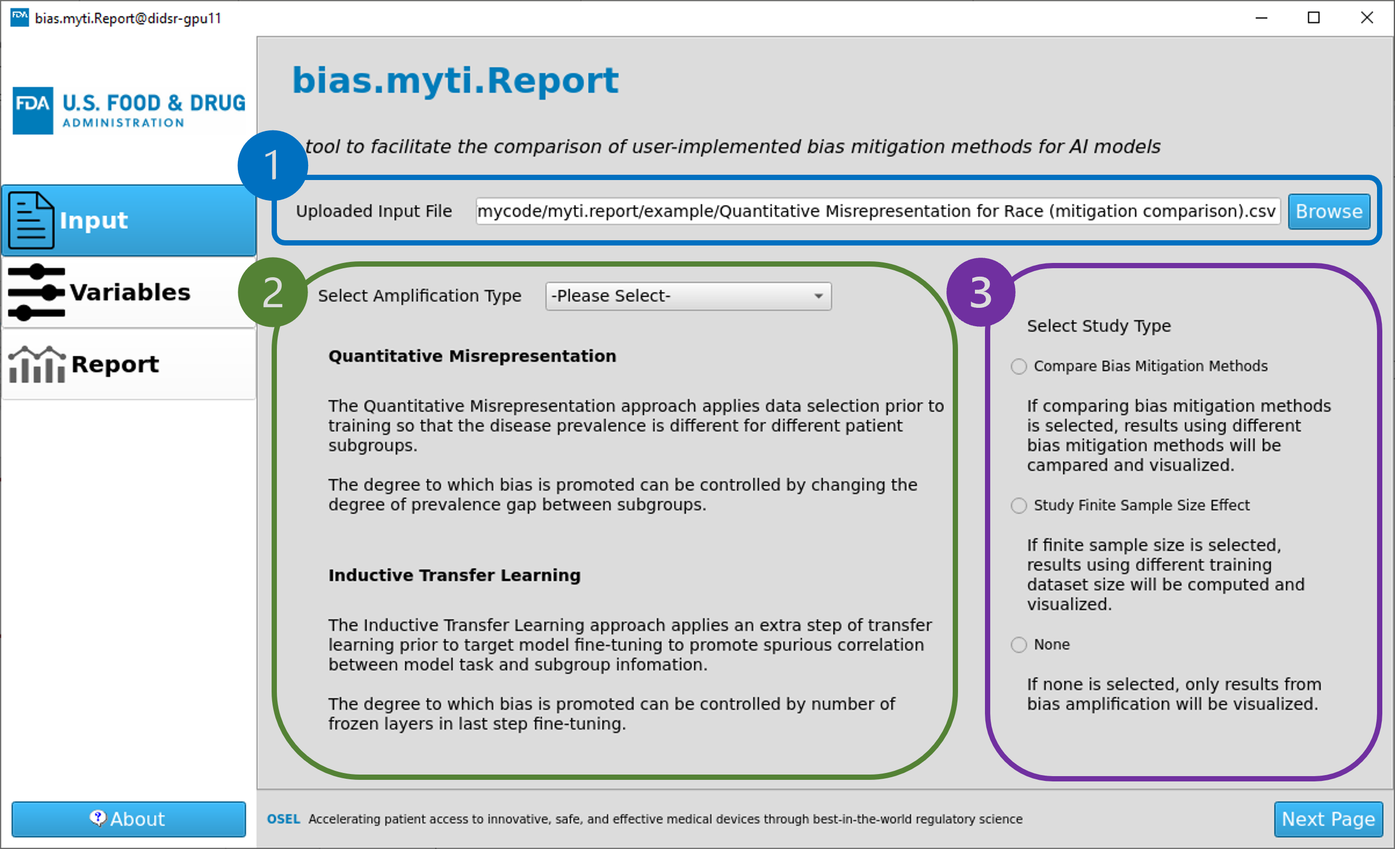
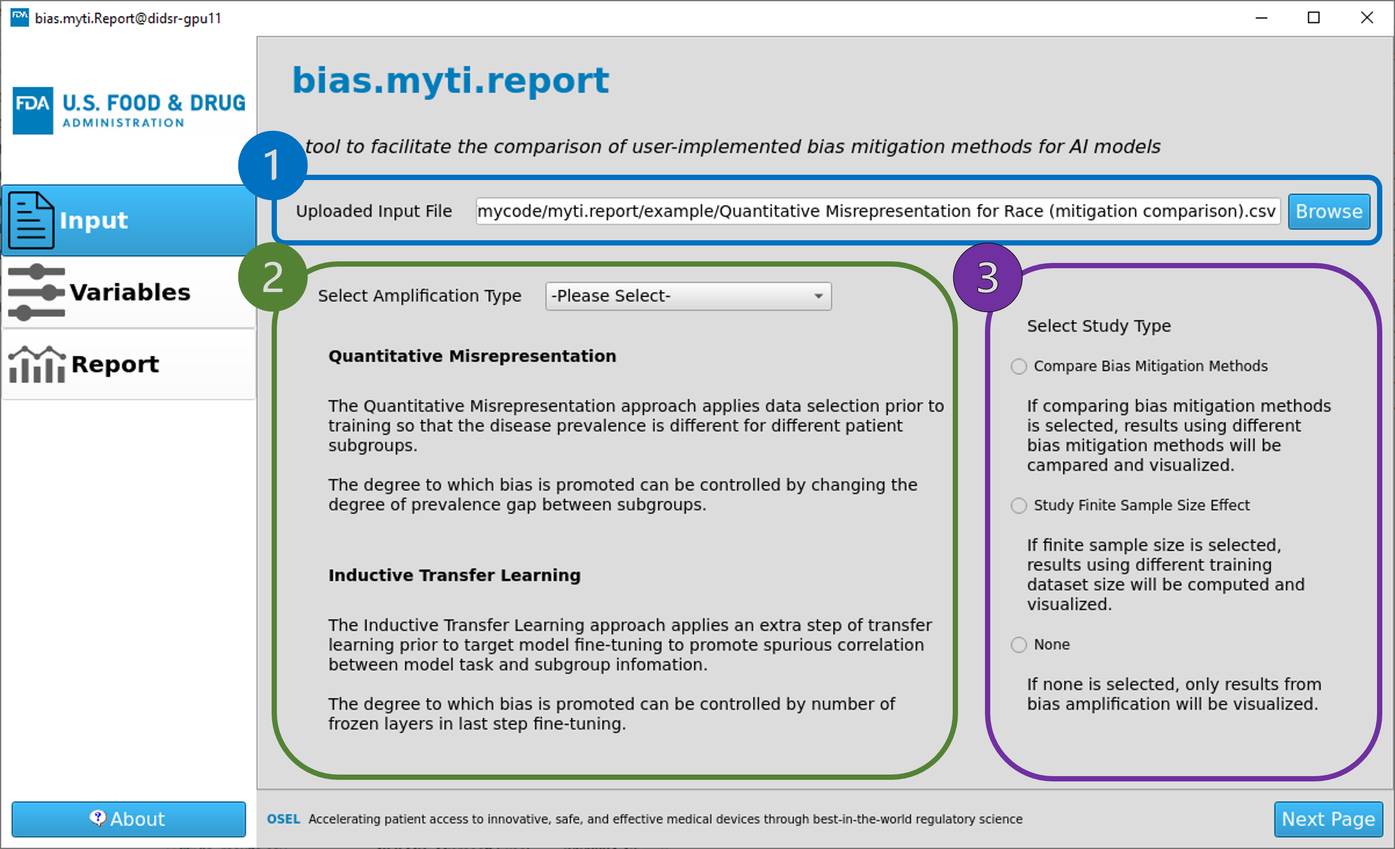
Modifying documentation page.

diff --git a/docs/searchindex.js b/docs/searchindex.js
@@ -1,1 +1,1 @@
-Search.setIndex({"docnames": ["index", "src"], "filenames": ["index.rst", "src.rst"], "titles": ["bias.myti.Report", "myti.report GUI"], "terms": {"aim": [], "increas": 0, "understand": [], "ai": 0, "model": [0, 1], "well": [], "effect": [], "implement": 0, "mitig": 0, "method": 0, "The": [0, 1], "tool": [0, 1], "provid": [0, 1], "guidanc": 0, "how": [0, 1], "systemat": 0, "amplifi": 0, "help": [], "user": [0, 1], "visual": 0, "two": 0, "approach": [0, 1], "includ": [0, 1], "quantit": 0, "misrepresent": 0, "induct": 0, "transfer": 0, "learn": 0, "can": [0, 1], "amplif": 0, "addit": [0, 1], "control": [0, 1], "over": 0, "degre": 0, "which": [0, 1], "i": [0, 1], "taken": 0, "both": 0, "Such": [], "facilit": 0, "comparison": 0, "To": 0, "propos": 0, "pleas": 0, "follow": 0, "instruct": 0, "exampl": 0, "jupyt": 0, "notebook": 0, "folder": 0, "either": 0, "us": [0, 1], "midrc": [0, 1], "open": [0, 1], "a1": [0, 1], "data": [0, 1], "set": [0, 1], "own": 0, "note": 0, "must": [0, 1], "have": [0, 1], "subgroup": [0, 1], "attribut": [0, 1], "inform": [0, 1], "measur": [0, 1], "gui": 0, "an": 0, "input": [0, 1], "csv": [0, 1], "contain": [0, 1], "result": [0, 1], "from": [0, 1], "experi": [0, 1], "make": 0, "between": [0, 1], "ha": 1, "algorithm": 0, "themselv": 0, "aggreg": 0, "singl": 0, "file": [0, 1], "A": 0, "differ": [0, 1], "perform": [0, 1], "process": [0, 1], "appli": 0, "select": [0, 1], "train": [0, 1], "so": 0, "diseas": 0, "preval": [0, 1], "ar": [0, 1], "step": 0, "scheme": 0, "where": [0, 1], "classifi": 0, "dure": [0, 1], "first": [0, 1], "In": [0, 1], "second": [0, 1], "fine": [0, 1], "tune": [0, 1], "clinic": 0, "task": [0, 1], "index": 0, "modul": 0, "search": 0, "page": [0, 1], "aboutwindow": [0, 1], "clicklabel": [0, 1], "dataset": [0, 1], "finalpag": [0, 1], "initialpag": [0, 1], "mainwindow": [0, 1], "secondpag": [0, 1], "adjust_comp": [0, 1], "adjust_subgroup": [0, 1], "analysi": [0, 1], "apply_custom_transfer_learning__resnet18": [0, 1], "bias_report_gener": [0, 1], "bootstrap": [0, 1], "calculate_ci": [0, 1], "convert_from_summari": [0, 1], "convert_to_csv": [0, 1], "figure_plot": [0, 1], "get_stat": [0, 1], "get_subgroup": [0, 1], "inference_onnx": [0, 1], "info_pred_map": [0, 1], "load_custom_checkpoint": [0, 1], "metric_calcul": [0, 1], "modify_classification_layer_v1": [0, 1], "prevent_data_leakag": [0, 1], "process_convert_dicom_to_jpeg": [0, 1], "process_convert_image_loop": [0, 1], "read_jpg": [0, 1], "read_open_a1_20221010": [0, 1], "results_plot": [0, 1], "run_deploy_onnx": [0, 1], "run_train": [0, 1], "run_valid": [0, 1], "save_checkpoint": [0, 1], "save_report": [0, 1], "train_split": [0, 1], "class": 1, "src": 1, "about": 1, "me": 1, "window": 1, "github": 1, "link": 1, "version": 1, "number": 1, "other": 1, "necessari": 1, "infom": 1, "load_gui": 1, "widget": 1, "compon": 1, "creat": 1, "clickabl": 1, "qlabel": 1, "object": 1, "mousepressev": 1, "event": 1, "defin": 1, "mous": 1, "click": 1, "list_fil": 1, "train_flag": 1, "true": 1, "default_out_class": 1, "ye": 1, "default_patient_id": 1, "patient_id": 1, "default_path": 1, "path": 1, "custom": 1, "paramet": 1, "list": 1, "patient": 1, "id": 1, "imag": 1, "class_valu": 1, "label": 1, "parent": 1, "page_numb": 1, "3": 1, "build": 1, "third": 1, "displai": 1, "thi": 1, "show": 1, "figur": 1, "corrspond": 1, "text": 1, "descript": 1, "It": 1, "allow": 1, "save": 1, "png": 1, "pdf": 1, "format": 1, "uicompon": 1, "check_condit": 1, "saniti": 1, "check": 1, "appropri": 1, "load": 1, "fig_select": 1, "figure_numb": 1, "updat": 1, "run_background": 1, "gener": 1, "save_fig": 1, "upload": 1, "specifi": 1, "type": 1, "studi": 1, "approach_typ": 1, "study_upd": 1, "upload_csv": 1, "get": 1, "arg": 1, "kwarg": 1, "main": 1, "logo": 1, "side": 1, "menu": 1, "navig": 1, "bar": 1, "about_info": 1, "change_pag": 1, "int": 1, "naviagt": 1, "three": 1, "make_navbar": 1, "add": 1, "button": 1, "make_sidebar": 1, "up": 1, "next_pag": 1, "next": 1, "prev_pag": 1, "previou": 1, "set_pag": 1, "update_navbar": 1, "adjust": 1, "each": 1, "all": 1, "placehold": 1, "condit": 1, "variabl": 1, "order": 1, "default": 1, "": 1, "run": 1, "background": 1, "ui": 1, "met": 1, "ani": 1, "work": 1, "need": 1, "befor": 1, "column": 1, "correspond": 1, "requir": [0, 1], "better": 1, "clarif": 1, "add_info": 1, "check_box": 1, "decid": 1, "get_column": 1, "in_df": 1, "random_se": 1, "split_frac": 1, "1": 1, "split_num": 1, "none": 1, "composit": 1, "match": 1, "comp": 1, "datafram": 1, "random": 1, "fraction": 1, "decim": 1, "avail": 1, "return": 1, "overal": 1, "panda": 1, "onli": 1, "reflect": 1, "import": 1, "equal_stratification_group": 1, "script": 1, "test": 1, "do": 1, "plot": 1, "net": 1, "resnet18": 1, "freez": 1, "certain": 1, "layer": 1, "csv_path": 1, "exp_typ": 1, "study_typ": 1, "function": 1, "dictionari": 1, "name": [0, 1], "everi": 1, "string": 1, "indic": 1, "m_list": 1, "obj": 1, "metric": 1, "info_list": 1, "partit": 1, "valid": 1, "validation_2": 1, "equal": 1, "ratio": 1, "race": 1, "sex": 1, "modal": 1, "covid": 1, "df": 1, "mean_col": 1, "mean": 1, "std_col": 1, "std": 1, "confidence_level": 1, "0": 1, "95": 1, "sample_s": 1, "25": 1, "calcul": 1, "confid": 1, "interv": 1, "accord": 1, "standard": 1, "deviat": 1, "level": 1, "sampl": 1, "size": 1, "ci": 1, "valu": 1, "current": 1, "support": 1, "9": 1, "99": 1, "comput": 1, "lower": 1, "upper": 1, "bound": 1, "conversion_t": 1, "min_img": 1, "max_img": 1, "selection_mod": 1, "random_st": 1, "json": 1, "per": 1, "read": 1, "summari": 1, "convers": 1, "minim": 1, "maximum": 1, "convert": 1, "x_col": 1, "s_col": 1, "hue_col": 1, "ylim": 1, "y_label": 1, "x_label": 1, "style_col": 1, "style_dict": 1, "color_dict": 1, "lower_ci_col": 1, "lower_ci": 1, "upper_ci_col": 1, "upper_ci": 1, "plot_sect": 1, "subplot": 1, "section": 1, "x": 1, "axi": 1, "tick": 1, "sub": 1, "map": 1, "color": 1, "y": 1, "limit": 1, "ax": 1, "determin": 1, "line": 1, "style": 1, "posit": 1, "associ": 1, "legend": 1, "df_dict": 1, "statist": 1, "kei": 1, "row": 1, "deploy": 1, "info": 1, "pred": 1, "e": 1, "g": 1, "predict": 1, "score": 1, "combin": 1, "ckpt_path": 1, "base_dcnn": 1, "gpu_id": 1, "num_channel": 1, "pre": 1, "given": 1, "weight": 1, "architectur": 1, "densenet121": 1, "etc": 1, "gpu": 1, "channel": 1, "result_df": 1, "info_pr": 1, "test_list": 1, "positive_group": 1, "prev_diff": 1, "threshold": 1, "5": 1, "output_fil": 1, "store": 1, "modifi": 1, "last": 1, "fulli": 1, "connect": 1, "output": 1, "pytorch": 1, "base_df": 1, "df_list": 1, "prevent": 1, "duplic": 1, "crop": 1, "dicom": 1, "jpeg": 1, "patient_id_": 1, "img_info": 1, "histogram": 1, "imagenam": 1, "jpg": 1, "rotat": 1, "enabl": 1, "augment": 1, "summar": 1, "download": 1, "tsv": 1, "20221010_open_a1_all_cas": 1, "submitter_id": 1, "ag": 1, "covid_statu": 1, "20221010_open_a1_all_imaging_seri": 1, "seri": 1, "value_col": 1, "b": 1, "4046ca": 1, "57c44f": 1, "f": 1, "dd337c": 1, "m": 1, "0fb5ae": 1, "7e84fa": 1, "w": 1, "f68511": 1, "y_lim": 1, "rang": [0, 1], "data_load": 1, "deploi": 1, "loader": 1, "base": 1, "auc": 1, "train_load": 1, "criterion": 1, "optim": 1, "loss": 1, "averag": 1, "epoch": 1, "float": 1, "val_load": 1, "state": 1, "filenam": 1, "checkpoint": 1, "pth": 1, "tar": 1, "img_path": 1, "save_path": 1, "titl": 1, "being": 1, "final": 1, "manipul": 1, "while": 1, "opposit": 1, "util": 1, "graphic": [], "one": 0, "design": 0, "through": 0, "creation": 0, "multipl": 0, "bias": 0, "readili": 0, "incorpor": 0, "develop": 0, "pipelin": 0, "evalu": 0, "under": 0, "specif": 0, "case": 0}, "objects": {"": [[1, 0, 0, "-", "src"]], "src": [[1, 1, 1, "", "AboutWindow"], [1, 1, 1, "", "ClickLabel"], [1, 1, 1, "", "FinalPage"], [1, 1, 1, "", "InitialPage"], [1, 1, 1, "", "MainWindow"], [1, 1, 1, "", "Page"], [1, 1, 1, "", "SecondPage"], [1, 3, 1, "", "bias_report_generation"], [1, 3, 1, "", "calculate_CI"], [1, 3, 1, "", "figure_plotting"], [1, 3, 1, "", "save_report"], [1, 0, 0, "-", "utils"]], "src.AboutWindow": [[1, 2, 1, "", "load_GUI"]], "src.ClickLabel": [[1, 2, 1, "", "mousePressEvent"]], "src.FinalPage": [[1, 2, 1, "", "UIComponents"], [1, 2, 1, "", "check_conditions"], [1, 2, 1, "", "fig_select"], [1, 2, 1, "", "run_background"], [1, 2, 1, "", "save_fig"]], "src.InitialPage": [[1, 2, 1, "", "UIComponents"], [1, 2, 1, "", "approach_type"], [1, 2, 1, "", "study_update"], [1, 2, 1, "", "upload_csv"]], "src.MainWindow": [[1, 2, 1, "", "about_info"], [1, 2, 1, "", "change_page"], [1, 2, 1, "", "load_GUI"], [1, 2, 1, "", "make_navbar"], [1, 2, 1, "", "make_sidebar"], [1, 2, 1, "", "next_page"], [1, 2, 1, "", "prev_page"], [1, 2, 1, "", "set_pages"], [1, 2, 1, "", "update_navbar"]], "src.Page": [[1, 2, 1, "", "UIComponents"], [1, 2, 1, "", "check_conditions"], [1, 2, 1, "", "load"], [1, 2, 1, "", "run_background"]], "src.SecondPage": [[1, 2, 1, "", "UIComponents"], [1, 2, 1, "", "add_info"], [1, 2, 1, "", "check_boxes"], [1, 2, 1, "", "check_conditions"], [1, 2, 1, "", "get_columns"]], "src.utils": [[1, 1, 1, "", "Dataset"], [1, 3, 1, "", "adjust_comp"], [1, 3, 1, "", "adjust_subgroups"], [1, 3, 1, "", "analysis"], [1, 3, 1, "", "apply_custom_transfer_learning__resnet18"], [1, 3, 1, "", "bootstrapping"], [1, 3, 1, "", "convert_from_summary"], [1, 3, 1, "", "convert_to_csv"], [1, 3, 1, "", "get_stats"], [1, 3, 1, "", "get_subgroup"], [1, 3, 1, "", "inference_onnx"], [1, 3, 1, "", "info_pred_mapping"], [1, 3, 1, "", "load_custom_checkpoint"], [1, 3, 1, "", "metric_calculation"], [1, 3, 1, "", "modify_classification_layer_v1"], [1, 3, 1, "", "prevent_data_leakage"], [1, 3, 1, "", "process_convert_dicom_to_jpeg"], [1, 3, 1, "", "process_convert_image_loop"], [1, 3, 1, "", "read_jpg"], [1, 3, 1, "", "read_open_A1_20221010"], [1, 3, 1, "", "results_plotting"], [1, 3, 1, "", "run_deploy_onnx"], [1, 3, 1, "", "run_train"], [1, 3, 1, "", "run_validate"], [1, 3, 1, "", "save_checkpoint"], [1, 3, 1, "", "train"], [1, 3, 1, "", "train_split"]]}, "objtypes": {"0": "py:module", "1": "py:class", "2": "py:method", "3": "py:function"}, "objnames": {"0": ["py", "module", "Python module"], "1": ["py", "class", "Python class"], "2": ["py", "method", "Python method"], "3": ["py", "function", "Python function"]}, "titleterms": {"bia": [0, 1], "myti": [0, 1], "report": [0, 1], "get": 0, "start": 0, "terminologi": 0, "function": 0, "class": 0, "document": 0, "indic": 0, "tabl": 0, "gui": 1, "amplif": 1, "implement": 1}, "envversion": {"sphinx.domains.c": 3, "sphinx.domains.changeset": 1, "sphinx.domains.citation": 1, "sphinx.domains.cpp": 9, "sphinx.domains.index": 1, "sphinx.domains.javascript": 3, "sphinx.domains.math": 2, "sphinx.domains.python": 4, "sphinx.domains.rst": 2, "sphinx.domains.std": 2, "sphinx": 60}, "alltitles": {"myti.report GUI": [[1, "module-src"]], "Bias Amplification Implementation": [[1, "module-src.utils"]], "bias.myti.Report": [[0, "bias-myti-report"]], "Getting Started": [[0, "getting-started"]], "Terminology": [[0, "terminology"]], "Function and Class Documentation": [[0, "function-and-class-documentation"]], "Indices and tables": [[0, "indices-and-tables"]]}, "indexentries": {}})
+Search.setIndex({"docnames": ["index", "src"], "filenames": ["index.rst", "src.rst"], "titles": ["bias.myti.Report", "myti.report GUI"], "terms": {"aim": [], "increas": 0, "understand": [], "ai": 0, "model": [0, 1], "well": [], "effect": [], "implement": 0, "mitig": 0, "method": 0, "The": [0, 1], "tool": [0, 1], "provid": [0, 1], "guidanc": 0, "how": [0, 1], "systemat": 0, "amplifi": 0, "help": [], "user": [0, 1], "visual": [], "two": 0, "approach": [0, 1], "includ": [0, 1], "quantit": 0, "misrepresent": 0, "induct": 0, "transfer": 0, "learn": 0, "can": [0, 1], "amplif": [], "addit": [0, 1], "control": [0, 1], "over": 0, "degre": 0, "which": [0, 1], "i": [0, 1], "taken": 0, "both": 0, "Such": [], "facilit": 0, "comparison": 0, "To": 0, "propos": [], "pleas": 0, "follow": 0, "instruct": [], "exampl": 0, "jupyt": 0, "notebook": 0, "folder": 0, "either": [], "us": [0, 1], "midrc": 1, "open": 1, "a1": 1, "data": [0, 1], "set": [0, 1], "own": 0, "note": [], "must": 1, "have": [0, 1], "subgroup": [0, 1], "attribut": [0, 1], "inform": [0, 1], "measur": [0, 1], "gui": 0, "an": 0, "input": [0, 1], "csv": [0, 1], "contain": [0, 1], "result": [0, 1], "from": [0, 1], "experi": [0, 1], "make": 0, "between": [0, 1], "ha": 1, "algorithm": 0, "themselv": [], "aggreg": 0, "singl": 0, "file": [0, 1], "A": 0, "differ": [0, 1], "perform": [0, 1], "process": [0, 1], "appli": 0, "select": [0, 1], "train": [0, 1], "so": 0, "diseas": 0, "preval": [0, 1], "ar": [0, 1], "step": 0, "scheme": 0, "where": [0, 1], "classifi": 0, "dure": [0, 1], "first": [0, 1], "In": [0, 1], "second": [0, 1], "fine": [0, 1], "tune": [0, 1], "clinic": 0, "task": [0, 1], "index": 0, "modul": 0, "search": 0, "page": [0, 1], "aboutwindow": [0, 1], "clicklabel": [0, 1], "dataset": [0, 1], "finalpag": [0, 1], "initialpag": [0, 1], "mainwindow": [0, 1], "secondpag": [0, 1], "adjust_comp": [0, 1], "adjust_subgroup": [0, 1], "analysi": [0, 1], "apply_custom_transfer_learning__resnet18": [0, 1], "bias_report_gener": [0, 1], "bootstrap": [0, 1], "calculate_ci": [0, 1], "convert_from_summari": [0, 1], "convert_to_csv": [0, 1], "figure_plot": [0, 1], "get_stat": [0, 1], "get_subgroup": [0, 1], "inference_onnx": [0, 1], "info_pred_map": [0, 1], "load_custom_checkpoint": [0, 1], "metric_calcul": [0, 1], "modify_classification_layer_v1": [0, 1], "prevent_data_leakag": [0, 1], "process_convert_dicom_to_jpeg": [0, 1], "process_convert_image_loop": [0, 1], "read_jpg": [0, 1], "read_open_a1_20221010": [0, 1], "results_plot": [0, 1], "run_deploy_onnx": [0, 1], "run_train": [0, 1], "run_valid": [0, 1], "save_checkpoint": [0, 1], "save_report": [0, 1], "train_split": [0, 1], "class": 1, "src": 1, "about": 1, "me": 1, "window": 1, "github": 1, "link": 1, "version": 1, "number": [0, 1], "other": 1, "necessari": 1, "infom": 1, "load_gui": 1, "widget": 1, "compon": 1, "creat": [0, 1], "clickabl": 1, "qlabel": 1, "object": 1, "mousepressev": 1, "event": 1, "defin": 1, "mous": 1, "click": 1, "list_fil": 1, "train_flag": 1, "true": 1, "default_out_class": 1, "ye": 1, "default_patient_id": 1, "patient_id": 1, "default_path": 1, "path": 1, "custom": [0, 1], "paramet": 1, "list": [0, 1], "patient": 1, "id": 1, "imag": 1, "class_valu": 1, "label": 1, "parent": 1, "page_numb": 1, "3": [0, 1], "build": 1, "third": 1, "displai": 1, "thi": 1, "show": 1, "figur": 1, "corrspond": 1, "text": 1, "descript": 1, "It": 1, "allow": 1, "save": 1, "png": 1, "pdf": 1, "format": 1, "uicompon": 1, "check_condit": 1, "saniti": 1, "check": 1, "appropri": 1, "load": 1, "fig_select": 1, "figure_numb": 1, "updat": 1, "run_background": 1, "gener": 1, "save_fig": 1, "upload": 1, "specifi": 1, "type": 1, "studi": 1, "approach_typ": 1, "study_upd": 1, "upload_csv": 1, "get": 1, "arg": 1, "kwarg": 1, "main": 1, "logo": 1, "side": 1, "menu": 1, "navig": 1, "bar": 1, "about_info": 1, "change_pag": 1, "int": 1, "naviagt": 1, "three": 1, "make_navbar": 1, "add": 1, "button": 1, "make_sidebar": 1, "up": 1, "next_pag": 1, "next": 1, "prev_pag": 1, "previou": 1, "set_pag": 1, "update_navbar": 1, "adjust": 1, "each": 1, "all": 1, "placehold": 1, "condit": 1, "variabl": 1, "order": 1, "default": 1, "": 1, "run": 1, "background": 1, "ui": 1, "met": 1, "ani": 1, "work": 1, "need": 1, "befor": 1, "column": 1, "correspond": 1, "requir": [0, 1], "better": 1, "clarif": 1, "add_info": 1, "check_box": 1, "decid": 1, "get_column": 1, "in_df": 1, "random_se": 1, "split_frac": 1, "1": [0, 1], "split_num": 1, "none": 1, "composit": 1, "match": 1, "comp": 1, "datafram": 1, "random": 1, "fraction": 1, "decim": 1, "avail": 1, "return": 1, "overal": 1, "panda": 1, "onli": 1, "reflect": 1, "import": 1, "equal_stratification_group": 1, "script": 1, "test": [0, 1], "do": 1, "plot": 1, "net": 1, "resnet18": 1, "freez": [0, 1], "certain": 1, "layer": [0, 1], "csv_path": 1, "exp_typ": 1, "study_typ": 1, "function": 1, "dictionari": 1, "name": [0, 1], "everi": 1, "string": 1, "indic": 1, "m_list": 1, "obj": 1, "metric": [0, 1], "info_list": 1, "partit": [0, 1], "valid": [0, 1], "validation_2": 1, "equal": 1, "ratio": 1, "race": 1, "sex": 1, "modal": 1, "covid": 1, "df": 1, "mean_col": 1, "mean": 1, "std_col": 1, "std": 1, "confidence_level": 1, "0": 1, "95": 1, "sample_s": 1, "25": 1, "calcul": [0, 1], "confid": 1, "interv": 1, "accord": 1, "standard": 1, "deviat": 1, "level": 1, "sampl": [0, 1], "size": 1, "ci": 1, "valu": 1, "current": 1, "support": 1, "9": 1, "99": 1, "comput": 1, "lower": 1, "upper": 1, "bound": 1, "conversion_t": 1, "min_img": 1, "max_img": 1, "selection_mod": 1, "random_st": 1, "json": 1, "per": 1, "read": 1, "summari": 1, "convers": 1, "minim": 1, "maximum": 1, "convert": 1, "x_col": 1, "s_col": 1, "hue_col": 1, "ylim": 1, "y_label": 1, "x_label": 1, "style_col": 1, "style_dict": 1, "color_dict": 1, "lower_ci_col": 1, "lower_ci": 1, "upper_ci_col": 1, "upper_ci": 1, "plot_sect": 1, "subplot": 1, "section": 1, "x": 1, "axi": 1, "tick": 1, "sub": 1, "map": 1, "color": 1, "y": 1, "limit": 1, "ax": 1, "determin": 1, "line": 1, "style": 1, "posit": 1, "associ": 1, "legend": 1, "df_dict": 1, "statist": 1, "kei": 1, "row": 1, "deploy": 1, "info": 1, "pred": 1, "e": 1, "g": 1, "predict": [0, 1], "score": 1, "combin": 1, "ckpt_path": 1, "base_dcnn": 1, "gpu_id": 1, "num_channel": 1, "pre": 1, "given": 1, "weight": 1, "architectur": 1, "densenet121": 1, "etc": [0, 1], "gpu": 1, "channel": 1, "result_df": 1, "info_pr": 1, "test_list": 1, "positive_group": 1, "prev_diff": 1, "threshold": 1, "5": [0, 1], "output_fil": 1, "store": 1, "modifi": 1, "last": 1, "fulli": 1, "connect": 1, "output": 1, "pytorch": 1, "base_df": 1, "df_list": 1, "prevent": 1, "duplic": 1, "crop": 1, "dicom": 1, "jpeg": 1, "patient_id_": 1, "img_info": 1, "histogram": 1, "imagenam": 1, "jpg": 1, "rotat": 1, "enabl": 1, "augment": 1, "summar": 1, "download": 1, "tsv": 1, "20221010_open_a1_all_cas": 1, "submitter_id": 1, "ag": 1, "covid_statu": 1, "20221010_open_a1_all_imaging_seri": 1, "seri": 1, "value_col": 1, "b": 1, "4046ca": 1, "57c44f": 1, "f": 1, "dd337c": 1, "m": 1, "0fb5ae": 1, "7e84fa": 1, "w": 1, "f68511": 1, "y_lim": 1, "rang": [0, 1], "data_load": 1, "deploi": [0, 1], "loader": 1, "base": 1, "auc": 1, "train_load": 1, "criterion": 1, "optim": 1, "loss": 1, "averag": 1, "epoch": 1, "float": 1, "val_load": 1, "state": 1, "filenam": 1, "checkpoint": 1, "pth": 1, "tar": 1, "img_path": 1, "save_path": 1, "titl": 1, "being": 1, "final": [0, 1], "manipul": 1, "while": 1, "opposit": 1, "util": 1, "graphic": [], "one": 0, "design": 0, "through": 0, "creation": 0, "multipl": 0, "bias": 0, "readili": 0, "incorpor": 0, "develop": 0, "pipelin": 0, "evalu": 0, "under": 0, "specif": 0, "case": 0, "below": 0, "your": 0, "2": 0, "new": 0, "4": 0, "sensit": 0, "target": 0, "classif": 0, "demonstr": 0, "found": 0, "separ": 0, "choic": 0}, "objects": {"": [[1, 0, 0, "-", "src"]], "src": [[1, 1, 1, "", "AboutWindow"], [1, 1, 1, "", "ClickLabel"], [1, 1, 1, "", "FinalPage"], [1, 1, 1, "", "InitialPage"], [1, 1, 1, "", "MainWindow"], [1, 1, 1, "", "Page"], [1, 1, 1, "", "SecondPage"], [1, 3, 1, "", "bias_report_generation"], [1, 3, 1, "", "calculate_CI"], [1, 3, 1, "", "figure_plotting"], [1, 3, 1, "", "save_report"], [1, 0, 0, "-", "utils"]], "src.AboutWindow": [[1, 2, 1, "", "load_GUI"]], "src.ClickLabel": [[1, 2, 1, "", "mousePressEvent"]], "src.FinalPage": [[1, 2, 1, "", "UIComponents"], [1, 2, 1, "", "check_conditions"], [1, 2, 1, "", "fig_select"], [1, 2, 1, "", "run_background"], [1, 2, 1, "", "save_fig"]], "src.InitialPage": [[1, 2, 1, "", "UIComponents"], [1, 2, 1, "", "approach_type"], [1, 2, 1, "", "study_update"], [1, 2, 1, "", "upload_csv"]], "src.MainWindow": [[1, 2, 1, "", "about_info"], [1, 2, 1, "", "change_page"], [1, 2, 1, "", "load_GUI"], [1, 2, 1, "", "make_navbar"], [1, 2, 1, "", "make_sidebar"], [1, 2, 1, "", "next_page"], [1, 2, 1, "", "prev_page"], [1, 2, 1, "", "set_pages"], [1, 2, 1, "", "update_navbar"]], "src.Page": [[1, 2, 1, "", "UIComponents"], [1, 2, 1, "", "check_conditions"], [1, 2, 1, "", "load"], [1, 2, 1, "", "run_background"]], "src.SecondPage": [[1, 2, 1, "", "UIComponents"], [1, 2, 1, "", "add_info"], [1, 2, 1, "", "check_boxes"], [1, 2, 1, "", "check_conditions"], [1, 2, 1, "", "get_columns"]], "src.utils": [[1, 1, 1, "", "Dataset"], [1, 3, 1, "", "adjust_comp"], [1, 3, 1, "", "adjust_subgroups"], [1, 3, 1, "", "analysis"], [1, 3, 1, "", "apply_custom_transfer_learning__resnet18"], [1, 3, 1, "", "bootstrapping"], [1, 3, 1, "", "convert_from_summary"], [1, 3, 1, "", "convert_to_csv"], [1, 3, 1, "", "get_stats"], [1, 3, 1, "", "get_subgroup"], [1, 3, 1, "", "inference_onnx"], [1, 3, 1, "", "info_pred_mapping"], [1, 3, 1, "", "load_custom_checkpoint"], [1, 3, 1, "", "metric_calculation"], [1, 3, 1, "", "modify_classification_layer_v1"], [1, 3, 1, "", "prevent_data_leakage"], [1, 3, 1, "", "process_convert_dicom_to_jpeg"], [1, 3, 1, "", "process_convert_image_loop"], [1, 3, 1, "", "read_jpg"], [1, 3, 1, "", "read_open_A1_20221010"], [1, 3, 1, "", "results_plotting"], [1, 3, 1, "", "run_deploy_onnx"], [1, 3, 1, "", "run_train"], [1, 3, 1, "", "run_validate"], [1, 3, 1, "", "save_checkpoint"], [1, 3, 1, "", "train"], [1, 3, 1, "", "train_split"]]}, "objtypes": {"0": "py:module", "1": "py:class", "2": "py:method", "3": "py:function"}, "objnames": {"0": ["py", "module", "Python module"], "1": ["py", "class", "Python class"], "2": ["py", "method", "Python method"], "3": ["py", "function", "Python function"]}, "titleterms": {"bia": [0, 1], "myti": [0, 1], "report": [0, 1], "get": 0, "start": 0, "terminologi": 0, "function": 0, "class": 0, "document": 0, "indic": 0, "tabl": 0, "gui": 1, "amplif": [0, 1], "implement": 1, "visual": 0}, "envversion": {"sphinx.domains.c": 3, "sphinx.domains.changeset": 1, "sphinx.domains.citation": 1, "sphinx.domains.cpp": 9, "sphinx.domains.index": 1, "sphinx.domains.javascript": 3, "sphinx.domains.math": 2, "sphinx.domains.python": 4, "sphinx.domains.rst": 2, "sphinx.domains.std": 2, "sphinx": 60}, "alltitles": {"myti.report GUI": [[1, "module-src"]], "Bias Amplification Implementation": [[1, "module-src.utils"]], "bias.myti.Report": [[0, "bias-myti-report"]], "Getting Started": [[0, "getting-started"]], "Bias Amplification": [[0, "bias-amplification"]], "Bias Visualization": [[0, "bias-visualization"]], "Terminology": [[0, "terminology"]], "Function and Class Documentation": [[0, "function-and-class-documentation"]], "Indices and tables": [[0, "indices-and-tables"]]}, "indexentries": {}})

diff --git a/docs/index.html b/docs/index.html
@@ -37,14 +37,27 @@
 </section>
 <section id="getting-started">
 <h1>Getting Started<a class="headerlink" href="#getting-started" title="Link to this heading">¶</a></h1>
-<ul class="simple">
-<li><p>Bias Amplification Implementation</p></li>
-</ul>
-<p>To implement proposed bias amplification approaches, please follow the instructions in example Jupyter notebooks included in the <a class="reference external" href="https://github.com/DIDSR/myti.report/tree/main/example">examples folder</a>. Users can either use the MIDRC Open-A1 data set provided in the example or their own data set. Please note that the data set must have subgroup attribute information to amplify and measure bias.</p>
-<ul class="simple">
-<li><p>Bias Visualization</p></li>
-</ul>
-<p>To visualize bias using myti.report GUI tool, an <strong>input csv</strong> which contains results from bias amplification (and mitigation) experiments is required. To make a comparison between bias mitigation methods, users have to implement mitigation algorithms by themselves and aggregate the results into one single csv file.</p>
+<section id="bias-amplification">
+<h2>Bias Amplification<a class="headerlink" href="#bias-amplification" title="Link to this heading">¶</a></h2>
+<p>To apply bias amplification, a data set with both class and subgroup attribute information is required. Please follow steps below for implementation:</p>
+<p><strong>1. Quantitative Misrepresentation</strong></p>
+<p><strong>Step 1.</strong> Partition your own data set into training, validation and test sets.</p>
+<p><strong>Step 2.</strong> Create a list of new training sets with a range of disease prevalence difference between subgroups.</p>
+<p><strong>Step 3.</strong> Train your customized models with sampled training sets from <strong>Step 1</strong>.</p>
+<p><strong>Step 4.</strong> Deploy your models on the test set.</p>
+<p><strong>Step 5.</strong> Calculate metrics to measure subgroup bias (subgroup predicted prevalence, sensitivity, etc.)</p>
+<p><strong>2. Inductive Transfer Learning</strong></p>
+<p><strong>Step 1.</strong> Partition your own data set into training, validation and test sets.</p>
+<p><strong>Step 2.</strong> Train your customized model to classify subgroup attributes.</p>
+<p><strong>Step 3.</strong> Fine-tune the result model from <strong>Step 2</strong> with different number of freezing layers for target task classification.</p>
+<p><strong>Step 4.</strong> Deploy your final models on the test set.</p>
+<p><strong>Step 5.</strong> Calculate metrics to measure subgroup bias (subgroup predicted prevalence, sensitivity, etc.)</p>
+<p>Demonstrations for both approaches can be found in two separate example Jupyter notebooks included in the <a class="reference external" href="https://github.com/DIDSR/myti.report/tree/main/example">examples folder</a>.</p>
+</section>
+<section id="bias-visualization">
+<h2>Bias Visualization<a class="headerlink" href="#bias-visualization" title="Link to this heading">¶</a></h2>
+<p>To visualize bias using myti.report GUI tool, an <strong>input csv</strong> which contains results from bias amplification (and mitigation) experiments is required. To make a comparison between bias mitigation methods, users have to implement mitigation algorithms by their choice and aggregate the results into one single csv file.</p>
+</section>
 </section>
 <section id="terminology">
 <h1>Terminology<a class="headerlink" href="#terminology" title="Link to this heading">¶</a></h1>

diff --git a/src/mytiUI.py b/src/mytiUI.py
@@ -83,7 +83,7 @@ class InitialPage(Page):
         # # program title
         self.title_box = QWidget()
         self.title_box.setObjectName("box")        
-        self.lbl_title = QLabel('bias.myti.Report', self.title_box)
+        self.lbl_title = QLabel('bias.myti.report', self.title_box)
         self.lbl_title.setObjectName("title")
         self.layout.addWidget(self.lbl_title)
         self.lbl_subtitle = QLabel('A tool to facilitate the comparison of user-implemented bias mitigation methods for AI models', self)
@@ -247,7 +247,7 @@ class SecondPage(Page):
         """Widgets for the second page"""
         clearLayout(self.layout)
         # # program title
-        self.lbl_title = QLabel('bias.myti.Report', self)
+        self.lbl_title = QLabel('bias.myti.report', self)
         self.lbl_title.setObjectName("title")
         self.layout.addWidget(self.lbl_title,0,0,1,2)
        
@@ -409,7 +409,7 @@ class FinalPage(Page):
         """Widgets for the page"""
         clearLayout(self.layout)
         # # program title
-        self.lbl_title = QLabel('bias.myti.Report', self)
+        self.lbl_title = QLabel('bias.myti.report', self)
         self.lbl_title.setObjectName('title')
         self.layout.addWidget(self.lbl_title, 0,0,1,2)
         self.layout.setSpacing(0)

diff --git a/src/utils/__init__.py b/src/utils/__init__.py
@@ -1,0 +1,8 @@
+from .data_summarize import read_open_A1_20221010
+from .data_conversion import process_convert_image_loop, process_convert_dicom_to_jpeg
+from .data_partitions import bootstrapping, adjust_subgroups, adjust_comp, prevent_data_leakage, convert_to_csv, convert_from_summary, get_subgroup, get_stats
+from .quantitative_misrepresentation_data_process import train_split
+from .dat_data_load import read_jpg, Dataset
+from .model_train import train, save_checkpoint, modify_classification_layer_v1, apply_custom_transfer_learning__resnet18, load_custom_checkpoint, run_train, run_validate
+from .model_inference import inference_onnx, run_deploy_onnx
+from .bias_analysis import info_pred_mapping, metric_calculation, analysis, results_plotting

diff --git a/docs/source/index.rst b/docs/source/index.rst
@@ -11,13 +11,42 @@ Bias.myti.report is a bias visualization tool designed to facilitate the systema
 
 Getting Started
 ===============
-* Bias Amplification Implementation
 
-To implement proposed bias amplification approaches, please follow the instructions in example Jupyter notebooks included in the `examples folder`_. Users can either use the MIDRC Open-A1 data set provided in the example or their own data set. Please note that the data set must have subgroup attribute information to amplify and measure bias. 
+Bias Amplification
+------------------
 
-* Bias Visualization
+To apply bias amplification, a data set with both class and subgroup attribute information is required. Please follow steps below for implementation:
 
-To visualize bias using myti.report GUI tool, an **input csv** which contains results from bias amplification (and mitigation) experiments is required. To make a comparison between bias mitigation methods, users have to implement mitigation algorithms by themselves and aggregate the results into one single csv file.
+**1. Quantitative Misrepresentation**
+
+**Step 1.** Partition your own data set into training, validation and test sets.
+
+**Step 2.** Create a list of new training sets with a range of disease prevalence difference between subgroups.
+
+**Step 3.** Train your customized models with sampled training sets from **Step 1**.
+
+**Step 4.** Deploy your models on the test set.
+
+**Step 5.** Calculate metrics to measure subgroup bias (subgroup predicted prevalence, sensitivity, etc.)
+
+**2. Inductive Transfer Learning**
+
+**Step 1.** Partition your own data set into training, validation and test sets.
+
+**Step 2.** Train your customized model to classify subgroup attributes.
+
+**Step 3.** Fine-tune the result model from **Step 2** with different number of freezing layers for target task classification.
+
+**Step 4.** Deploy your final models on the test set.
+
+**Step 5.** Calculate metrics to measure subgroup bias (subgroup predicted prevalence, sensitivity, etc.)
+
+Demonstrations for both approaches can be found in two separate example Jupyter notebooks included in the `examples folder`_. 
+
+Bias Visualization
+------------------
+
+To visualize bias using myti.report GUI tool, an **input csv** which contains results from bias amplification (and mitigation) experiments is required. To make a comparison between bias mitigation methods, users have to implement mitigation algorithms by their choice and aggregate the results into one single csv file.
 
 
 
